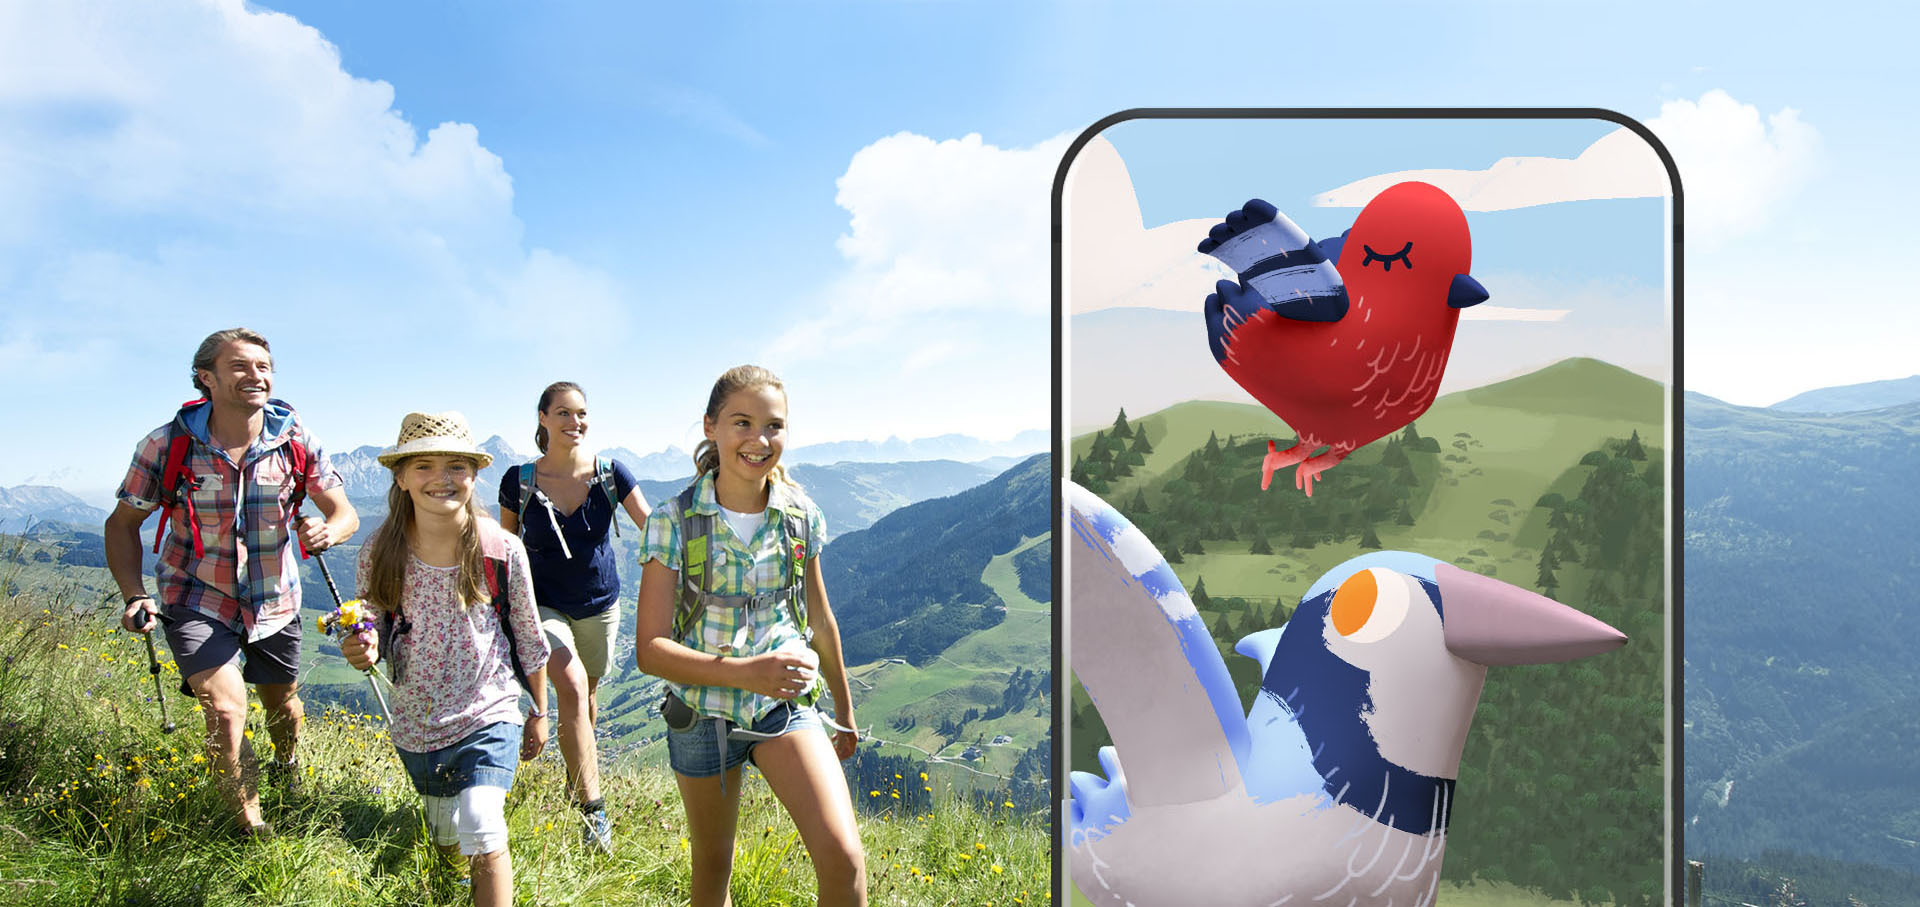
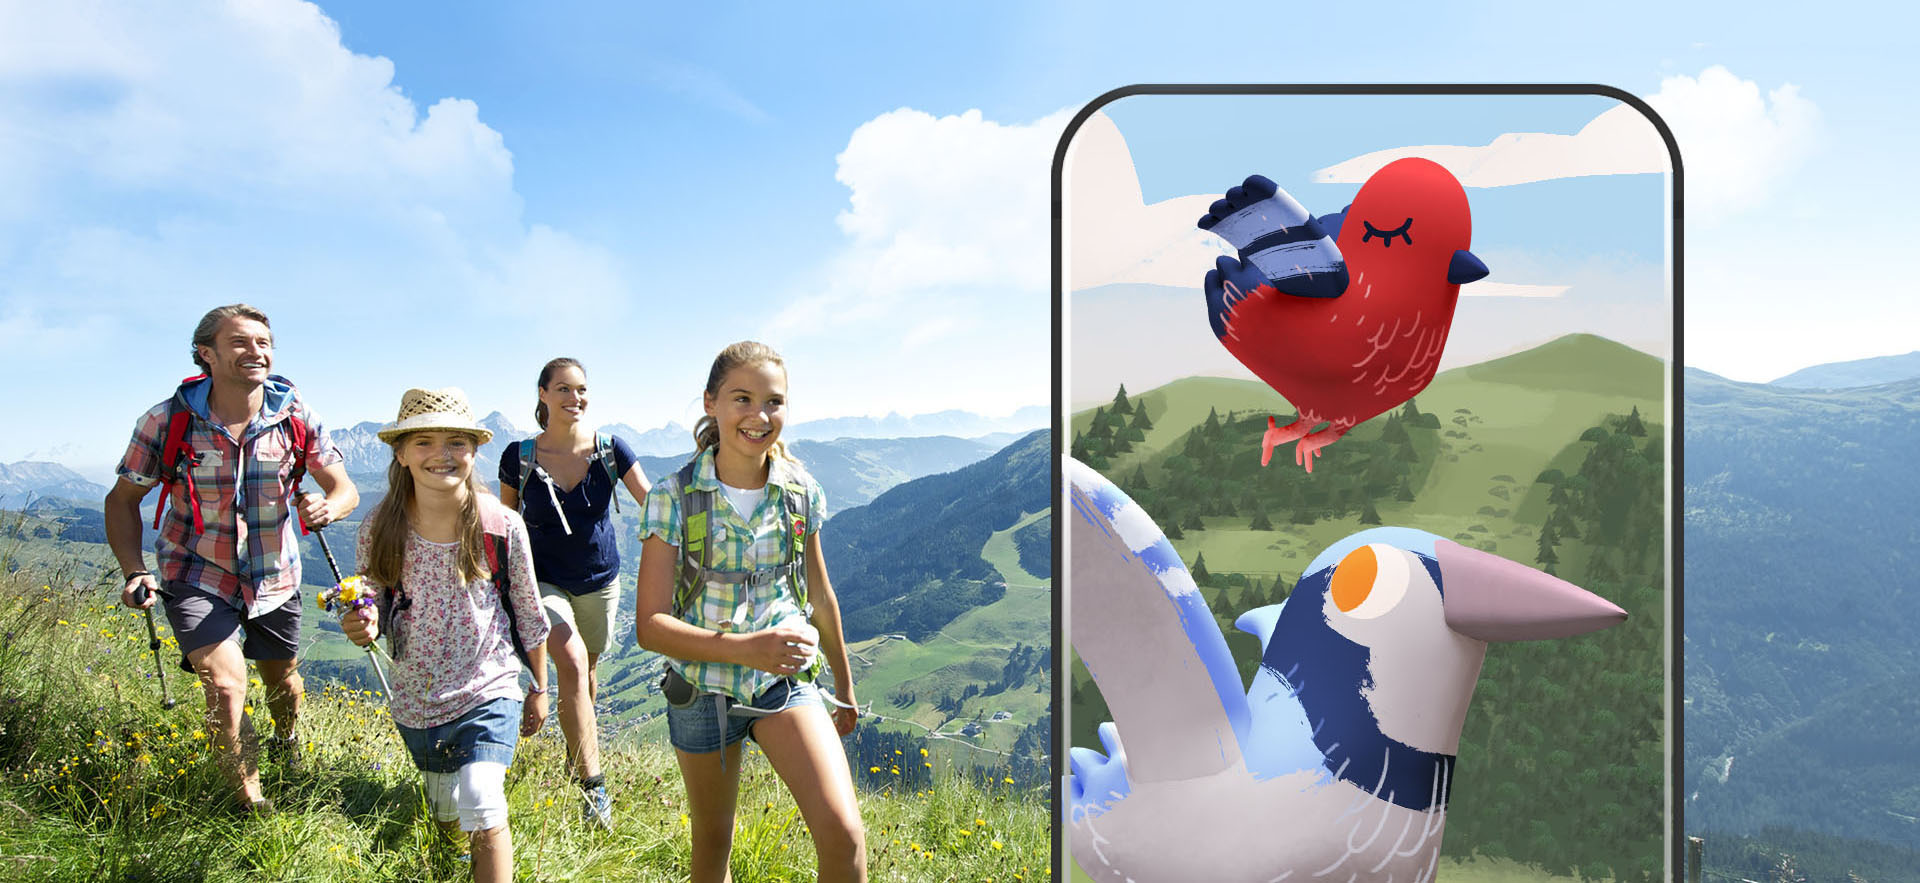
preloaded images

diff --git a/portfolio/preloaded.html b/portfolio/preloaded.html
@@ -45,7 +45,7 @@ layout: default
 </div>
 
 <!-- moodboard -->
-<div class="wide-pic-holder">
+<div class="wide-pic-holder" style="padding-top: 0;">
 	<img alt="IP research" src="/images/portfolio/preloaded-moodboard.jpg">
 </div>
 
